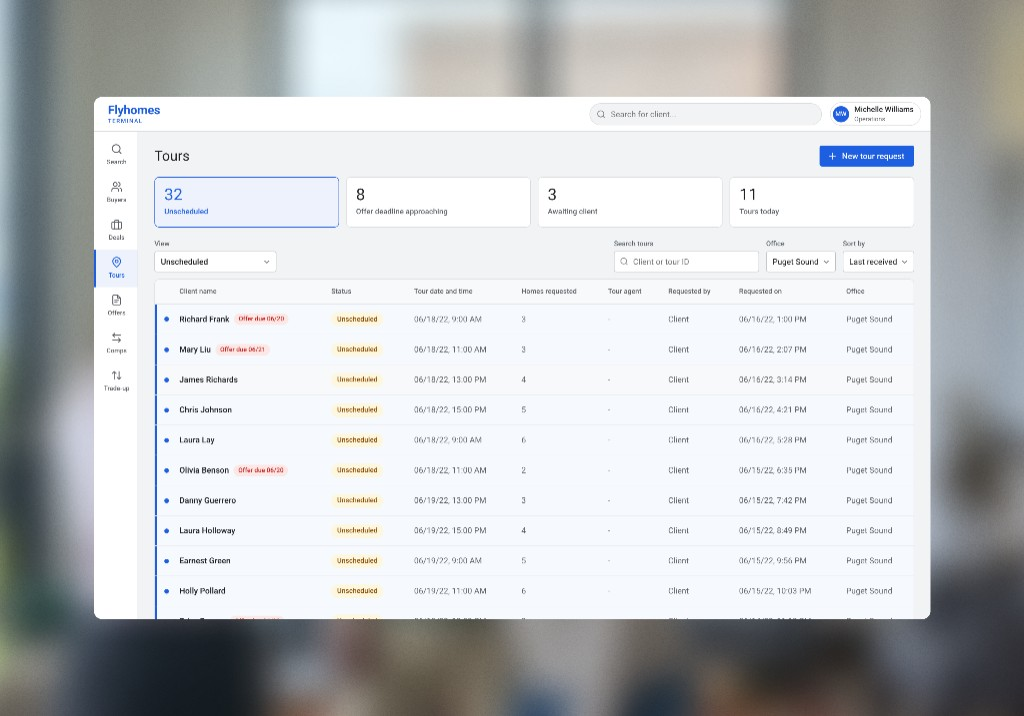
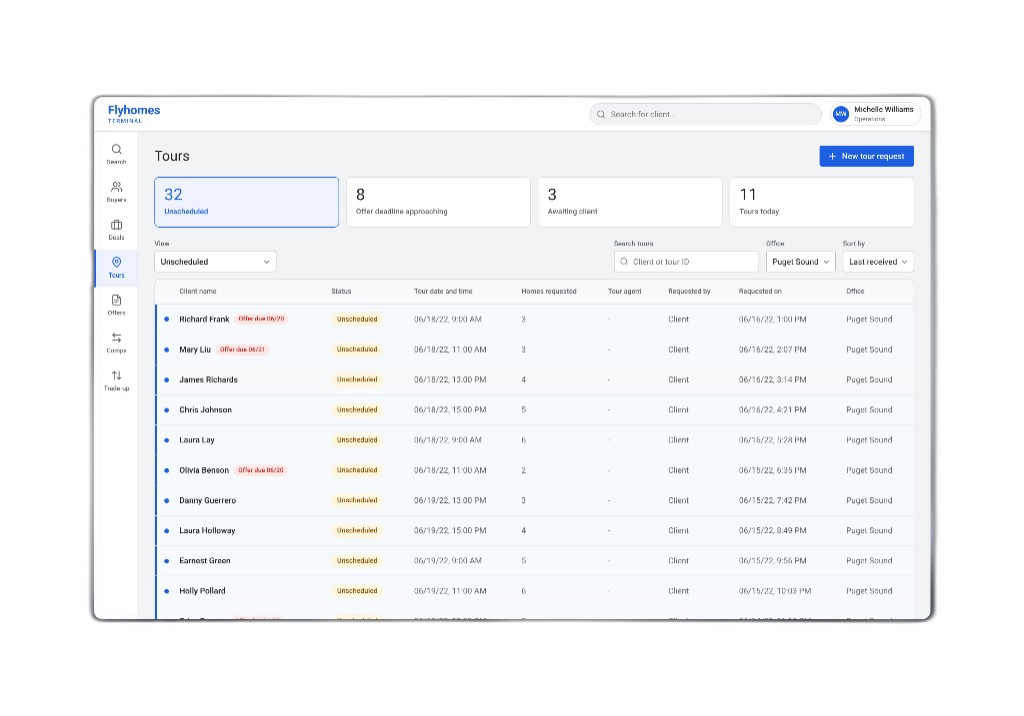
Switch portfolio background to white and refresh Flyhomes thumbs.
Replace parchment surfaces with white, soften collapsed-work fades, and re-composite Flyhomes project images on clean white.

diff --git a/index.html b/index.html
@@ -23,8 +23,8 @@
   <meta name="twitter:title" content="Diana Barraza · Shawn Barraza | Staff Product Designer">
   <meta name="twitter:description" content="Diana Barraza / Shawn Barraza — Staff Product Designer with 10+ years in fintech and healthcare, previously at Square. Banking, payments, and platform work with AI-native workflows.">
   <meta name="twitter:image" content="https://barrazaxd.com/diana_shawn_barraza.png?v=2">
-  <link rel="stylesheet" href="ui-system.css?v=2">
-  <link rel="stylesheet" href="styles.css?v=86">
+  <link rel="stylesheet" href="ui-system.css?v=3">
+  <link rel="stylesheet" href="styles.css?v=87">
   <link rel="icon" href="favicon.png?v=2" type="image/png" sizes="32x32">
   <link rel="apple-touch-icon" href="apple-touch-icon.png?v=2">
   <link rel="preconnect" href="https://fonts.googleapis.com">
@@ -279,7 +279,7 @@
             <div class="grid portfolio-more" id="portfolio-more">
           <div class="glass-card project-card" data-case-study="case-study-flyhomes-tour-booking.html" data-work-categories="real-estate">
             <div class="project-media">
-              <img src="flyhomes-internal.png?v=2" alt="Flyhomes Terminal Tours queue for internal tour scheduling">
+              <img src="flyhomes-internal.png?v=3" alt="Flyhomes Terminal Tours queue for internal tour scheduling">
             </div>
             <div class="project-meta">
               <h3 class="project-title">Automating tour scheduling so buyers could move faster</h3>
@@ -294,7 +294,7 @@
           </div>
           <div class="glass-card project-card" data-coming-soon data-work-categories="real-estate">
             <div class="project-media">
-              <img src="flyhomes-search.png?v=2" alt="Flyhomes mobile tour itinerary with map and confirmed showings">
+              <img src="flyhomes-search.png?v=3" alt="Flyhomes mobile tour itinerary with map and confirmed showings">
             </div>
             <div class="project-meta">
               <h3 class="project-title">Redesigning home tours for a fast-moving market</h3>

diff --git a/b/index.html b/b/index.html
@@ -13,13 +13,13 @@
 <link rel="preconnect" href="https://fonts.gstatic.com" crossorigin>
 <link href="https://fonts.googleapis.com/css2?family=Instrument+Sans:ital,wght@0,400;0,500;0,600;0,700;1,400&family=IBM+Plex+Mono:wght@400;500&display=swap" rel="stylesheet">
 
-<link rel="stylesheet" href="../ui-system.css?v=1">
+<link rel="stylesheet" href="../ui-system.css?v=3">
 <style>
   *, *::before, *::after { box-sizing: border-box; }
   :root {
-    --color-bg: #F3EEE2;
-    --color-bg-2: #ECE6D2;
-    --color-card: #FBF8F0;
+    --color-bg: #FFFFFF;
+    --color-bg-2: #F5F5F5;
+    --color-card: #FFFFFF;
     --color-ink: #191F1B;
     --color-muted: #6C685B;
     --color-faint: #A5A091;
@@ -316,7 +316,7 @@
         </div>
       </a>
       <a class="work-card" href="../case-study-flyhomes-tour-booking.html">
-        <div class="work-thumb"><img src="../flyhomes-internal.png?v=2" alt="Flyhomes Terminal Tours queue for internal tour scheduling"></div>
+        <div class="work-thumb"><img src="../flyhomes-internal.png?v=3" alt="Flyhomes Terminal Tours queue for internal tour scheduling"></div>
         <div class="work-body">
           <div class="work-index">05<span class="idx-rule"></span></div>
           <div>
@@ -327,7 +327,7 @@
         </div>
       </a>
       <div class="work-card work-card--soon" aria-label="Case study coming soon">
-        <div class="work-thumb"><img src="../flyhomes-search.png?v=2" alt="Flyhomes mobile tour itinerary with map and confirmed showings"></div>
+        <div class="work-thumb"><img src="../flyhomes-search.png?v=3" alt="Flyhomes mobile tour itinerary with map and confirmed showings"></div>
         <div class="work-body">
           <div class="work-index">06<span class="idx-rule"></span></div>
           <div>

diff --git a/styles.css b/styles.css
@@ -1,11 +1,11 @@
 :root {
-  --color-bg: #F3EEE2;
-  --color-bg-2: #ECE6D2;
-  --color-card: #FBF8F0;
+  --color-bg: #FFFFFF;
+  --color-bg-2: #F5F5F5;
+  --color-card: #FFFFFF;
   --color-ink: #191F1B;
-  --color-muted: #6C685B;
-  --color-faint: #A5A091;
-  --color-line: #DDD6C4;
+  --color-muted: #6B6B6B;
+  --color-faint: #A3A3A3;
+  --color-line: #E8E8E8;
   --color-accent: #1D2ED9;
   --color-error: #B4530A;
   --bg-color: var(--color-bg);
@@ -81,7 +81,7 @@ a:hover {
   left: 0;
   right: 0;
   z-index: 100;
-  background: rgba(243, 238, 226, 0.78);
+  background: rgba(255, 255, 255, 0.78);
   backdrop-filter: saturate(180%) blur(18px);
   -webkit-backdrop-filter: saturate(180%) blur(18px);
   border-bottom: 1px solid transparent;
@@ -92,7 +92,7 @@ a:hover {
 }
 
 .site-header.is-scrolled {
-  background: rgba(243, 238, 226, 0.92);
+  background: rgba(255, 255, 255, 0.92);
   border-bottom-color: color-mix(in srgb, var(--color-accent) 28%, transparent);
   box-shadow:
     0 1px 0 rgba(255, 255, 255, 0.6) inset,
@@ -632,11 +632,12 @@ nav a.active {
   display: block;
   position: absolute;
   inset: auto 0 0;
-  height: 112px;
+  height: 160px;
   background: linear-gradient(
     to bottom,
     rgba(255, 255, 255, 0) 0%,
-    rgba(255, 255, 255, 0.82) 42%,
+    rgba(255, 255, 255, 0.35) 45%,
+    rgba(255, 255, 255, 0.78) 78%,
     #ffffff 100%
   );
   pointer-events: none;

diff --git a/case-study.css b/case-study.css
@@ -1,11 +1,11 @@
 :root {
-  --color-bg: #F3EEE2;
-  --color-bg-2: #ECE6D2;
-  --color-card: #FBF8F0;
+  --color-bg: #FFFFFF;
+  --color-bg-2: #F5F5F5;
+  --color-card: #FFFFFF;
   --color-ink: #191F1B;
-  --color-muted: #6C685B;
-  --color-faint: #A5A091;
-  --color-line: #DDD6C4;
+  --color-muted: #6B6B6B;
+  --color-faint: #A3A3A3;
+  --color-line: #E8E8E8;
   --color-accent: #1D2ED9;
   --color-error: #B4530A;
   --font-display: "Instrument Sans", sans-serif;
@@ -186,7 +186,7 @@ body.case-study-body {
   position: sticky;
   top: 0;
   z-index: 100;
-  background: rgba(243, 238, 226, 0.9);
+  background: rgba(255, 255, 255, 0.92);
   backdrop-filter: blur(12px);
   border-bottom: 1px solid var(--cs-border);
 }

diff --git a/case-study-bill-pay-vendors.html b/case-study-bill-pay-vendors.html
@@ -13,8 +13,8 @@
   <link rel="preconnect" href="https://fonts.googleapis.com">
   <link rel="preconnect" href="https://fonts.gstatic.com" crossorigin>
   <link href="https://fonts.googleapis.com/css2?family=Instrument+Sans:ital,wght@0,400;0,500;0,600;0,700;1,400&family=IBM+Plex+Mono:wght@400;500&display=swap" rel="stylesheet">
-  <link rel="stylesheet" href="ui-system.css?v=1">
-  <link rel="stylesheet" href="case-study.css?v=45">
+  <link rel="stylesheet" href="ui-system.css?v=3">
+  <link rel="stylesheet" href="case-study.css?v=47">
 </head>
 <body class="case-study-body">
 

diff --git a/case-study-biller-network.html b/case-study-biller-network.html
@@ -11,8 +11,8 @@
   <link rel="preconnect" href="https://fonts.googleapis.com">
   <link rel="preconnect" href="https://fonts.gstatic.com" crossorigin>
   <link href="https://fonts.googleapis.com/css2?family=Instrument+Sans:ital,wght@0,400;0,500;0,600;0,700;1,400&family=IBM+Plex+Mono:wght@400;500&display=swap" rel="stylesheet">
-  <link rel="stylesheet" href="ui-system.css?v=1">
-  <link rel="stylesheet" href="case-study.css?v=46">
+  <link rel="stylesheet" href="ui-system.css?v=3">
+  <link rel="stylesheet" href="case-study.css?v=47">
 </head>
 <body class="case-study-body">
 

diff --git a/case-study-checking.html b/case-study-checking.html
@@ -10,8 +10,8 @@
   <link rel="preconnect" href="https://fonts.googleapis.com">
   <link rel="preconnect" href="https://fonts.gstatic.com" crossorigin>
   <link href="https://fonts.googleapis.com/css2?family=Instrument+Sans:ital,wght@0,400;0,500;0,600;0,700;1,400&family=IBM+Plex+Mono:wght@400;500&display=swap" rel="stylesheet">
-  <link rel="stylesheet" href="ui-system.css?v=1">
-  <link rel="stylesheet" href="case-study.css?v=45">
+  <link rel="stylesheet" href="ui-system.css?v=3">
+  <link rel="stylesheet" href="case-study.css?v=47">
 </head>
 <body class="case-study-body">
 

diff --git a/case-study-debit-card-activation.html b/case-study-debit-card-activation.html
@@ -10,8 +10,8 @@
   <link rel="preconnect" href="https://fonts.googleapis.com">
   <link rel="preconnect" href="https://fonts.gstatic.com" crossorigin>
   <link href="https://fonts.googleapis.com/css2?family=Instrument+Sans:ital,wght@0,400;0,500;0,600;0,700;1,400&family=IBM+Plex+Mono:wght@400;500&display=swap" rel="stylesheet">
-  <link rel="stylesheet" href="ui-system.css?v=1">
-  <link rel="stylesheet" href="case-study.css?v=45">
+  <link rel="stylesheet" href="ui-system.css?v=3">
+  <link rel="stylesheet" href="case-study.css?v=47">
 </head>
 <body class="case-study-body">
 

diff --git a/case-study-flyhomes-tour-booking.html b/case-study-flyhomes-tour-booking.html
@@ -11,8 +11,8 @@
   <link rel="preconnect" href="https://fonts.googleapis.com">
   <link rel="preconnect" href="https://fonts.gstatic.com" crossorigin>
   <link href="https://fonts.googleapis.com/css2?family=Instrument+Sans:ital,wght@0,400;0,500;0,600;0,700;1,400&family=IBM+Plex+Mono:wght@400;500&display=swap" rel="stylesheet">
-  <link rel="stylesheet" href="ui-system.css?v=1">
-  <link rel="stylesheet" href="case-study.css?v=45">
+  <link rel="stylesheet" href="ui-system.css?v=3">
+  <link rel="stylesheet" href="case-study.css?v=47">
 </head>
 <body class="case-study-body">
 

diff --git a/case-study-heal-health-monitoring.html b/case-study-heal-health-monitoring.html
@@ -10,8 +10,8 @@
   <link rel="preconnect" href="https://fonts.googleapis.com">
   <link rel="preconnect" href="https://fonts.gstatic.com" crossorigin>
   <link href="https://fonts.googleapis.com/css2?family=Instrument+Sans:ital,wght@0,400;0,500;0,600;0,700;1,400&family=IBM+Plex+Mono:wght@400;500&display=swap" rel="stylesheet">
-  <link rel="stylesheet" href="ui-system.css?v=1">
-  <link rel="stylesheet" href="case-study.css?v=45">
+  <link rel="stylesheet" href="ui-system.css?v=3">
+  <link rel="stylesheet" href="case-study.css?v=47">
 </head>
 <body class="case-study-body">
 

diff --git a/case-study-heal-primary-care.html b/case-study-heal-primary-care.html
@@ -10,8 +10,8 @@
   <link rel="preconnect" href="https://fonts.googleapis.com">
   <link rel="preconnect" href="https://fonts.gstatic.com" crossorigin>
   <link href="https://fonts.googleapis.com/css2?family=Instrument+Sans:ital,wght@0,400;0,500;0,600;0,700;1,400&family=IBM+Plex+Mono:wght@400;500&display=swap" rel="stylesheet">
-  <link rel="stylesheet" href="ui-system.css?v=1">
-  <link rel="stylesheet" href="case-study.css?v=45">
+  <link rel="stylesheet" href="ui-system.css?v=3">
+  <link rel="stylesheet" href="case-study.css?v=47">
 </head>
 <body class="case-study-body">
 

diff --git a/ui-system.css b/ui-system.css
@@ -1,11 +1,11 @@
 :root {
-  --color-bg: #F3EEE2;
-  --color-bg-2: #ECE6D2;
-  --color-card: #FBF8F0;
+  --color-bg: #FFFFFF;
+  --color-bg-2: #F5F5F5;
+  --color-card: #FFFFFF;
   --color-ink: #191F1B;
-  --color-muted: #6C685B;
-  --color-faint: #A5A091;
-  --color-line: #DDD6C4;
+  --color-muted: #6B6B6B;
+  --color-faint: #A3A3A3;
+  --color-line: #E8E8E8;
   --color-accent: #1D2ED9;
   --color-error: #B4530A;
   --font-display: "Instrument Sans", sans-serif;
